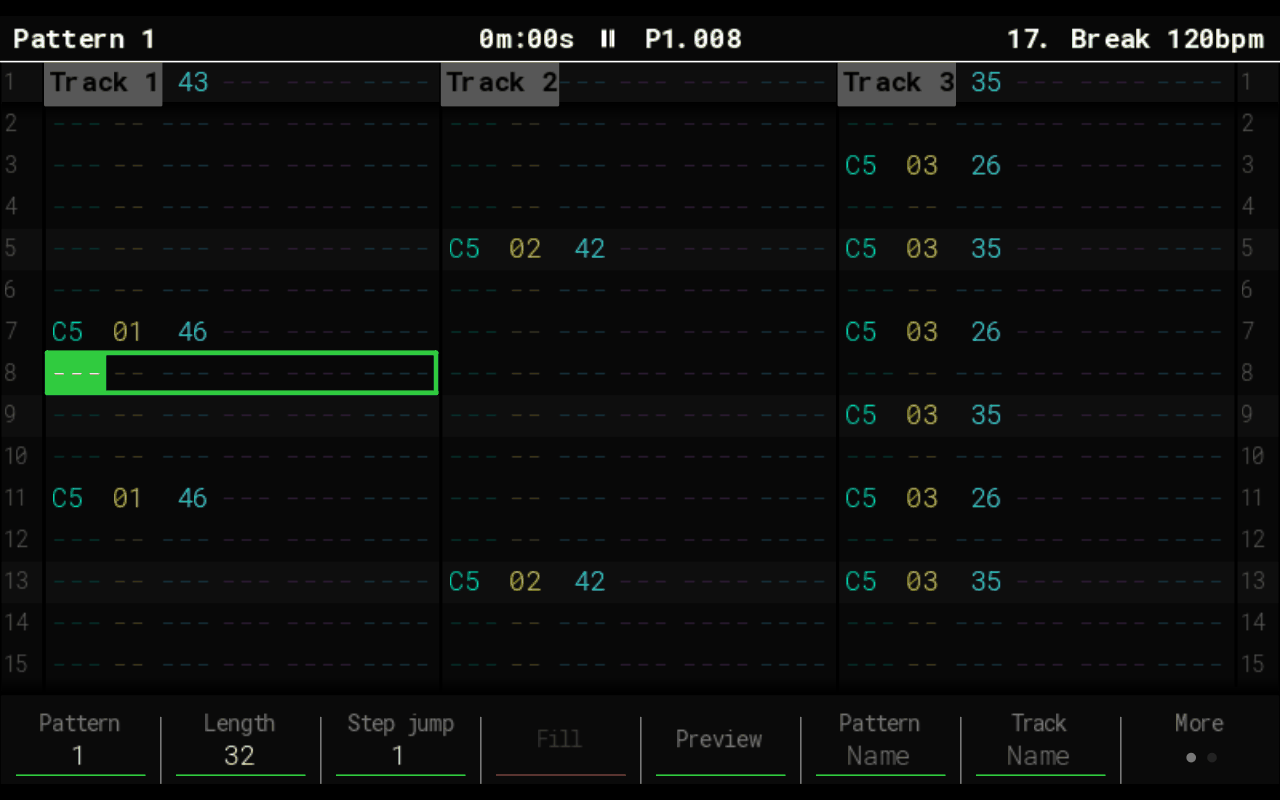
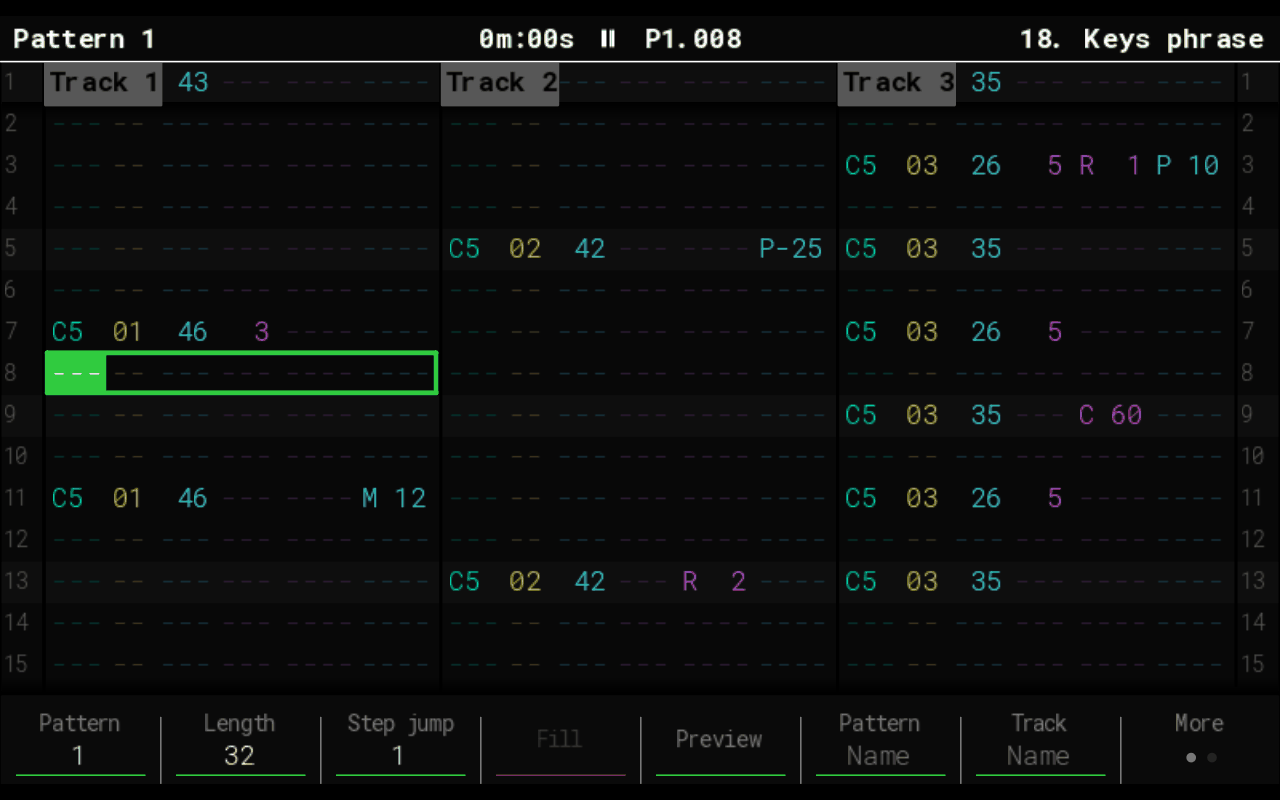
README screenshots: manual slicing of a keys phrase; Pattern screen using every column
The Pattern screenshot now shows micromoves, volumes and both effect columns
(Roll, Panning, Chance, Micro-tune); the slicing screenshot shows ten slices
made by hand on the pads while the phrase played.

Claude-Session: https://claude.ai/code/session_01TeN7YP72ts9yMBiM9NRYgq

diff --git a/README.md b/README.md
@@ -35,12 +35,12 @@
     <td width="50%"><img src="docs/images/track-mute.png" alt="Track Mute screen"></td>
   </tr>
   <tr>
-    <td align="center"><sub>MPC-style slicing: a loop cut into 16 slices, played from the pads</sub></td>
+    <td align="center"><sub>Manual slicing: a keys phrase sliced on the pads while it plays</sub></td>
     <td align="center"><sub>Track Mute: 16 tracks on the 16 pads</sub></td>
   </tr>
 </table>
 
-<sub>Screenshots from MPDJ's own renderer at the MPC's 1280x800 resolution, with the MPDJ Kit and a drum loop made from it.</sub>
+<sub>Screenshots from MPDJ's own renderer at the MPC's 1280x800 resolution, with the MPDJ Kit and a keys phrase.</sub>
 
 ## Status
 
